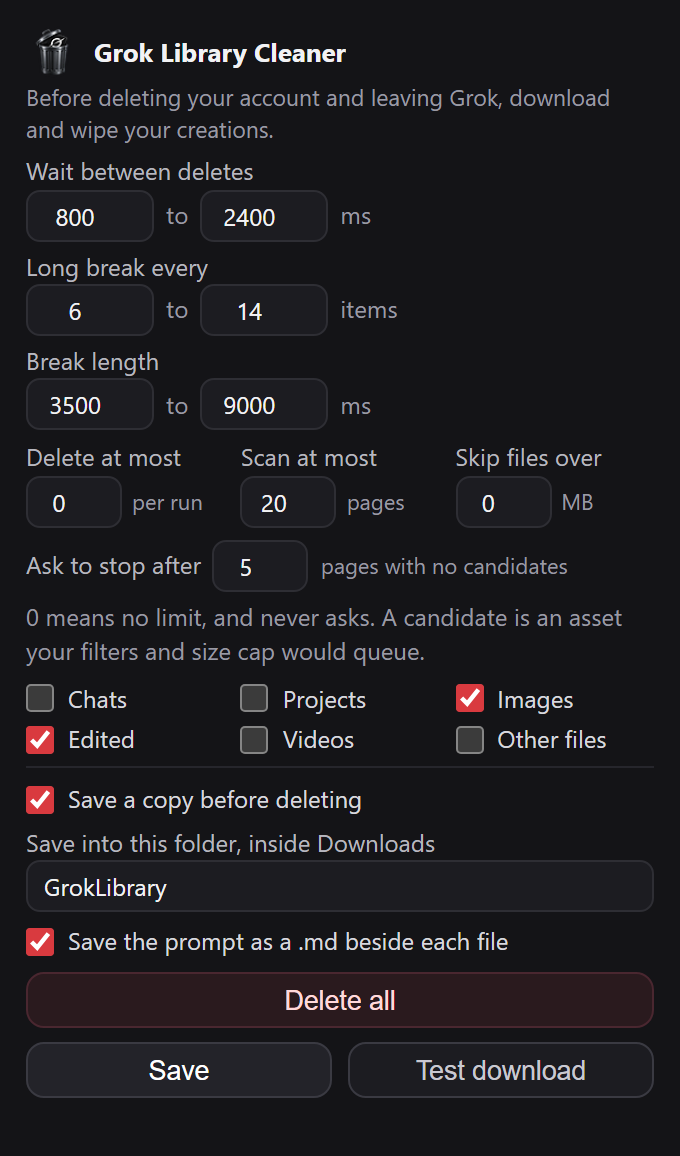
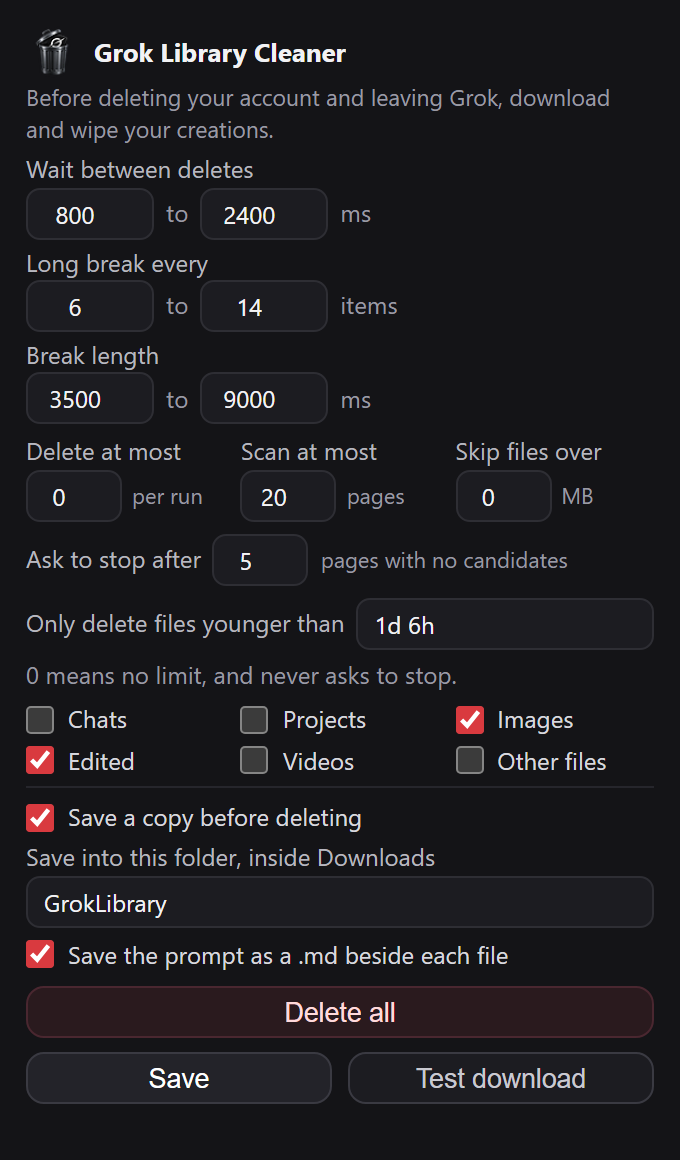
Only delete files younger than a given age
A text field takes Xy Xm Xd Xh, any mix of years, months, weeks, days and
hours, and spares everything older. Empty means every age; text that cannot
be read refuses the run rather than widening it, and both the confirmation
and the nothing-to-delete toast say what the filter spared.

diff --git a/content.js b/content.js
@@ -42,6 +42,7 @@
     maxSizeMB: 0, // 0 = accept every size
     maxScanPages: 0, // 0 = walk every page the list has
     stopAfterNoCandidates: 0, // 0 = never ask to stop early
+    youngerThan: '', // age filter: only delete newer assets, empty = every age
     removeSessions: false, // chats and sessions, off by default
     removeProjects: false, // projects (workspaces), off by default
     downloadFirst: false, // opt in: save a copy before deleting
@@ -122,6 +123,7 @@
       maxSizeMB: num(s.maxSizeMB, 0, 0, 4096),
       maxScanPages: num(s.maxScanPages, 0, 0, 10000),
       stopAfterNoCandidates: num(s.stopAfterNoCandidates, 0, 0, 10000),
+      youngerThan: String(s.youngerThan || '').trim(),
       removeSessions: s.removeSessions === true,
       removeProjects: s.removeProjects === true,
       downloadFirst: s.downloadFirst === true,
@@ -327,17 +329,64 @@
 
   const sizeCap = () => (settings.maxSizeMB > 0 ? settings.maxSizeMB * 1024 * 1024 : 0);
 
+  /**
+   * The age field reads "1y 2m 3d 4h": any subset, any order, spaces or commas between
+   * parts. Empty means the filter is off (0) and text that cannot be read returns -1, so a
+   * typo refuses the run instead of quietly widening it to every age.
+   */
+  const AGE_UNITS = {
+    y: 365 * 86400000,
+    m: 30 * 86400000,
+    mo: 30 * 86400000,
+    w: 7 * 86400000,
+    d: 86400000,
+    h: 3600000,
+  };
+  const AGE_TOKEN = /(\d+(?:\.\d+)?)\s*(mo|y|m|w|d|h)/g;
+
+  function parseAge(text) {
+    const t = String(text || '').trim().toLowerCase();
+    if (!t) return 0;
+    let total = 0;
+    let seen = false;
+    let m;
+    AGE_TOKEN.lastIndex = 0;
+    while ((m = AGE_TOKEN.exec(t))) {
+      total += parseFloat(m[1]) * AGE_UNITS[m[2]];
+      seen = true;
+    }
+    const leftover = t.replace(/(\d+(?:\.\d+)?)\s*(mo|y|m|w|d|h)/g, '').replace(/[\s,]+/g, '');
+    if (!seen || leftover || total <= 0) return -1;
+    return total;
+  }
+
+  /* 0 when the filter is off or unreadable; startScan refuses an unreadable value first. */
+  function ageCutoff() {
+    const ms = parseAge(settings.youngerThan);
+    return ms > 0 ? Date.now() - ms : 0;
+  }
+
   function classify(assets) {
     const chosen = { plain: 0, edited: 0, video: 0, other: 0 };
     const counts = { plain: 0, edited: 0, video: 0, other: 0 };
     const targets = [];
     const cap = sizeCap();
+    const cutoff = ageCutoff();
     let tooBig = 0;
+    let tooOld = 0;
     for (const a of assets) {
       if (!a || a.isDeleted) continue;
       const cls = classOf(a);
       counts[cls] += 1;
       if (!selected(a)) continue;
+      // createTime ships with every list row too, so the age filter is just a comparison
+      if (cutoff) {
+        const made = Date.parse(a.createTime);
+        if (!Number.isFinite(made) || made < cutoff) {
+          tooOld += 1;
+          continue;
+        }
+      }
       // sizeBytes ships with every list row, so the cap costs no extra request
       if (cap && (Number(a.sizeBytes) || 0) > cap) {
         tooBig += 1;
@@ -346,7 +395,7 @@
       chosen[cls] += 1;
       targets.push(a);
     }
-    return { counts, chosen, targets, tooBig };
+    return { counts, chosen, targets, tooBig, tooOld };
   }
 
   const mixShort = (c) =>
@@ -369,6 +418,7 @@
     if (settings.includeEdited) parts.push('edited');
     if (settings.includeVideos) parts.push('videos');
     if (settings.includeOther) parts.push('files');
+    if (settings.youngerThan) parts.push('younger than ' + settings.youngerThan);
     return parts.join(' + ') || 'nothing selected';
   }
 
@@ -996,6 +1046,13 @@
       flashError('Nothing selected', 'Turn on chats, projects, images, videos or files in the popup.');
       return;
     }
+    if (settings.youngerThan && parseAge(settings.youngerThan) < 0) {
+      flashError(
+        'Could not read the age filter',
+        '"' + settings.youngerThan + '" is not an age. Use something like 1d 6h, or clear the field.'
+      );
+      return;
+    }
 
     phase = 'scan';
     stopRequested = false;
@@ -1019,6 +1076,7 @@
     let noCandidateStreak = 0;
     let chatsInProjects = 0;
     let tooBig = 0;
+    let tooOld = 0;
     const queue = [];
     const room = () => (limit > 0 ? Math.max(0, limit - queue.length) : Infinity);
 
@@ -1113,6 +1171,7 @@
         noCandidateStreak = res.noCandidateStreak || 0;
         const built = classify(assets);
         tooBig = built.tooBig;
+        tooOld = built.tooOld;
         for (const a of built.targets) {
           if (room() <= 0) break;
           queue.push(assetEntry(a));
@@ -1149,12 +1208,15 @@
     if (!queue.length) {
       phase = 'idle';
       resetHeaderButton();
+      const spared = [];
+      if (tooBig) spared.push(plural(tooBig, 'match', 'matches') + ' over ' + settings.maxSizeMB + ' MB');
+      if (tooOld) spared.push(plural(tooOld, 'match', 'matches') + ' older than ' + settings.youngerThan);
       showToast({
         tone: 'success',
         title: 'Nothing to delete',
         detail:
-          tooBig && !queue.length
-            ? 'all ' + plural(tooBig, 'match', 'matches') + ' are over ' + settings.maxSizeMB + ' MB'
+          spared.length
+            ? 'all of them spared: ' + spared.join(', ')
             : mixShort(queueCounts) +
               ' · filters: ' +
               filtersLabel() +
@@ -1171,6 +1233,8 @@
         mixShort(queueCounts) +
         (chatsInProjects ? ' · ' + fmtInt(chatsInProjects) + ' in projects kept' : '') +
         (tooBig ? ' · skipping ' + fmtInt(tooBig) + ' over ' + settings.maxSizeMB + ' MB' : '') +
+        (settings.youngerThan ? ' · only younger than ' + settings.youngerThan : '') +
+        (tooOld ? ' · skipping ' + fmtInt(tooOld) + ' older' : '') +
         (hasAssets
           ? settings.downloadFirst
             ? ' · saving to ' + (settings.folder ? 'Downloads/' + settings.folder : 'Downloads')
@@ -1341,7 +1405,7 @@
     list: listAllAssets,
     preview: async () => {
       const res = await listAllAssets(null, null, { maxPages: settings.maxScanPages });
-      const { counts, chosen, targets, tooBig } = classify(res.assets);
+      const { counts, chosen, targets, tooBig, tooOld } = classify(res.assets);
       return {
         scanned: res.assets.length,
         pages: res.pages,
@@ -1351,6 +1415,8 @@
         chosen,
         queue: targets.length,
         tooBig,
+        tooOld,
+        youngerThan: settings.youngerThan,
         maxSizeMB: settings.maxSizeMB,
         downloadFirst: settings.downloadFirst,
         folder: settings.folder,

diff --git a/popup.html b/popup.html
@@ -18,7 +18,7 @@
       p.hint { margin: 0; color: #9a9aa3; font-size: 12px; }
       p.subtitle { margin: 2px 0 0; color: #9a9aa3; font-size: 11.5px; line-height: 1.4; }
       p.hint.spaced { margin: 4px 0 0; }
-      .field { margin: 4px 0 0; color: #b7b7bf; font-size: 12px; }
+      .field { margin: 3px 0 0; color: #b7b7bf; font-size: 12px; }
       .field .label { display: block; }
       .field .range { display: flex; align-items: center; gap: 6px; color: #9a9aa3; }
       input[type="number"] {
@@ -47,8 +47,9 @@
         font: inherit;
         font-size: 12px;
       }
+      input::placeholder { color: #61616a; }
       input[type="checkbox"] { width: 14px; height: 14px; margin: 0; accent-color: #d93a3f; flex: 0 0 auto; }
-      .grid2 { display: grid; grid-template-columns: repeat(3, 1fr); gap: 3px 8px; margin-top: 6px; }
+      .grid2 { display: grid; grid-template-columns: repeat(3, 1fr); gap: 3px 8px; margin-top: 5px; }
       .caps { display: grid; grid-template-columns: repeat(3, 1fr); gap: 5px 8px; margin-top: 5px; }
       .caps .field { margin: 0; }
       .caps input[type="number"] { width: 48px; }
@@ -63,13 +64,15 @@
         font-size: 12px;
       }
       .caps .wide .unit { color: #9a9aa3; font-size: 11px; white-space: nowrap; }
+      .caps .wide .label { flex: 0 0 auto; }
+      .caps .wide input[type="text"] { flex: 1 1 auto; width: auto; min-width: 0; height: 26px; font-size: 12px; }
       .check { display: flex; align-items: center; gap: 7px; color: #d8d8de; font-size: 12px; }
       .check label { margin: 0; }
-      .divider { height: 1px; margin: 5px 0 0; background: #26262c; }
+      .divider { height: 1px; margin: 4px 0 0; background: #26262c; }
       .actions { display: flex; gap: 8px; margin-top: 7px; }
       button {
         flex: 1;
-        height: 28px;
+        height: 26px;
         border-radius: 9px;
         border: 1px solid #3a3a42;
         background: #232329;
@@ -90,7 +93,7 @@
         color: #ffd9db;
       }
       button.danger:hover { background: #352025; border-color: #5f2f39; }
-      #status { margin-top: 4px; font-size: 11.5px; color: #8b8b93; min-height: 12px; word-break: break-word; }
+      #status { margin-top: 3px; font-size: 11.5px; color: #8b8b93; min-height: 12px; word-break: break-word; }
     </style>
   </head>
   <body>
@@ -153,12 +156,16 @@
         </div>
       </div>
       <div class="wide">
-        <span class="label">Ask to stop after</span>
+        <span class="label" title="A candidate is an asset your type filters and size cap would actually queue">Ask to stop after</span>
         <input id="stopAfterNoCandidates" type="number" min="0" step="1" aria-label="Ask to stop after this many pages with no candidates, 0 to never ask" />
         <span class="unit">pages with no candidates</span>
       </div>
+      <div class="wide">
+        <span class="label">Only delete files younger than</span>
+        <input id="youngerThan" type="text" spellcheck="false" placeholder="Xy Xm Xd Xh" aria-label="Only delete files younger than this age, for example 1d 6h or 2m. Clear it for every age." />
+      </div>
     </div>
-    <p class="hint spaced">0 means no limit, and never asks. A candidate is an asset your filters and size cap would queue.</p>
+    <p class="hint spaced">0 means no limit, and never asks to stop.</p>
 
     <div class="grid2">
       <div class="check">
@@ -189,7 +196,7 @@
 
     <div class="divider"></div>
 
-    <div class="check" style="margin-top: 7px">
+    <div class="check" style="margin-top: 6px">
       <input id="downloadFirst" type="checkbox" />
       <label for="downloadFirst">Save a copy before deleting</label>
     </div>
@@ -199,7 +206,7 @@
       <input id="folder" type="text" spellcheck="false" placeholder="(no subfolder)" aria-label="Folder name inside the Downloads folder, leave empty to save straight into Downloads" />
     </div>
 
-    <div class="check" style="margin-top: 6px">
+    <div class="check" style="margin-top: 5px">
       <input id="savePrompts" type="checkbox" checked />
       <label for="savePrompts">Save the prompt as a .md beside each file</label>
     </div>

diff --git a/popup.js b/popup.js
@@ -14,6 +14,7 @@ const DEFAULTS = {
   maxSizeMB: 0,
   maxScanPages: 0,
   stopAfterNoCandidates: 0,
+  youngerThan: '',
   removeSessions: false,
   removeProjects: false,
   downloadFirst: false,
@@ -44,6 +45,24 @@ const CHECKBOXES = [
   'downloadFirst',
   'savePrompts',
 ];
+
+/* Mirrors content.js parseAge: empty is 0, unreadable is -1. Used to refuse a typo. */
+function parseAge(text) {
+  const t = String(text || '').trim().toLowerCase();
+  if (!t) return 0;
+  const units = { y: 31536000000, m: 2592000000, mo: 2592000000, w: 604800000, d: 86400000, h: 3600000 };
+  const token = /(\d+(?:\.\d+)?)\s*(mo|y|m|w|d|h)/g;
+  let total = 0;
+  let seen = false;
+  let m;
+  while ((m = token.exec(t))) {
+    total += parseFloat(m[1]) * units[m[2]];
+    seen = true;
+  }
+  const leftover = t.replace(/(\d+(?:\.\d+)?)\s*(mo|y|m|w|d|h)/g, '').replace(/[\s,]+/g, '');
+  if (!seen || leftover || total <= 0) return -1;
+  return total;
+}
 
 /* Downloads land under Downloads/<folder>, so keep it to one plain path segment. */
 function cleanFolder(value) {
@@ -79,6 +98,7 @@ function fill(settings) {
   for (const [key, id] of NUMBER_FIELDS) document.getElementById(id).value = s[key];
   for (const key of CHECKBOXES) document.getElementById(key).checked = s[key] !== false && s[key] === true;
   document.getElementById('folder').value = s.folder || '';
+  document.getElementById('youngerThan').value = s.youngerThan || '';
   syncSave(s);
 }
 
@@ -98,6 +118,11 @@ function read() {
   };
   for (const key of CHECKBOXES) out[key] = document.getElementById(key).checked;
   out.folder = cleanFolder(document.getElementById('folder').value);
+  out.youngerThan = document
+    .getElementById('youngerThan')
+    .value.trim()
+    .replace(/\s+/g, ' ')
+    .toLowerCase();
   if (out.maxDelay < out.minDelay) out.maxDelay = out.minDelay;
   if (out.longPauseEveryMax < out.longPauseEveryMin) out.longPauseEveryMax = out.longPauseEveryMin;
   if (out.longPauseMax < out.longPauseMin) out.longPauseMax = out.longPauseMin;
@@ -118,6 +143,10 @@ if (store) {
 document.getElementById('save').addEventListener('click', async () => {
   const settings = read();
   const status = document.getElementById('status');
+  if (settings.youngerThan && parseAge(settings.youngerThan) < 0) {
+    status.textContent = 'Age: use a value like 1d 6h, or leave it empty.';
+    return;
+  }
   if (!store) {
     status.textContent = 'Storage is unavailable in this context.';
     return;
@@ -128,6 +157,10 @@ document.getElementById('save').addEventListener('click', async () => {
   setTimeout(() => {
     status.textContent = '';
   }, 3000);
+});
+
+document.getElementById('youngerThan').addEventListener('keydown', (e) => {
+  if (e.key === 'Enter') document.getElementById('save').click();
 });
 
 for (const [, id] of NUMBER_FIELDS) {
@@ -153,6 +186,10 @@ document.getElementById('delall').addEventListener('click', async () => {
     settings.includeOther;
   if (!anyType) {
     status.textContent = 'Turn on at least one type first.';
+    return;
+  }
+  if (settings.youngerThan && parseAge(settings.youngerThan) < 0) {
+    status.textContent = 'Age: use a value like 1d 6h, or leave it empty.';
     return;
   }
   if (store) await store.set({ settings });

diff --git a/README.md b/README.md
@@ -57,6 +57,8 @@ Chrome loads unpacked extensions from a folder, never from an archive, so the sa
 
 **Size guard.** *Skip files over N MB* keeps big renders out of a bulk purge. `sizeBytes` ships with every list row, so the guard adds no requests and no scanning time. It applies while the queue is built, before anything is deleted, and the confirm toast reports how many matches were spared. On a sample of 600 recent assets, a 1 MB cap spared 1.4% of plain images and 100% of videos. The per-tile glyph still deletes whatever you click, cap or no cap, because that click is explicit.
 
+**Age filter.** *Only delete files younger than* takes a compact age such as `1d 6h`, `3m` or `2y 1m 3d`, any mix of years, months, weeks, days and hours. Everything older is spared, so a run can clear the last day of experiments and leave the rest of the library alone. The field starts empty and its dim placeholder shows the format rather than a value. An age the extension cannot read stops the run before anything is scanned, and the confirmation names the filter and how many files it spared.
+
 ## Keep a copy before it goes
 
 Saving is off until you turn it on, and the folder field starts empty. Name a folder and copies land sorted by creation day, for example `Downloads/GrokLibrary/2026-10-21/`. Leave the field empty and the day folders sit straight in Downloads, at `Downloads/2026-10-21/`.
